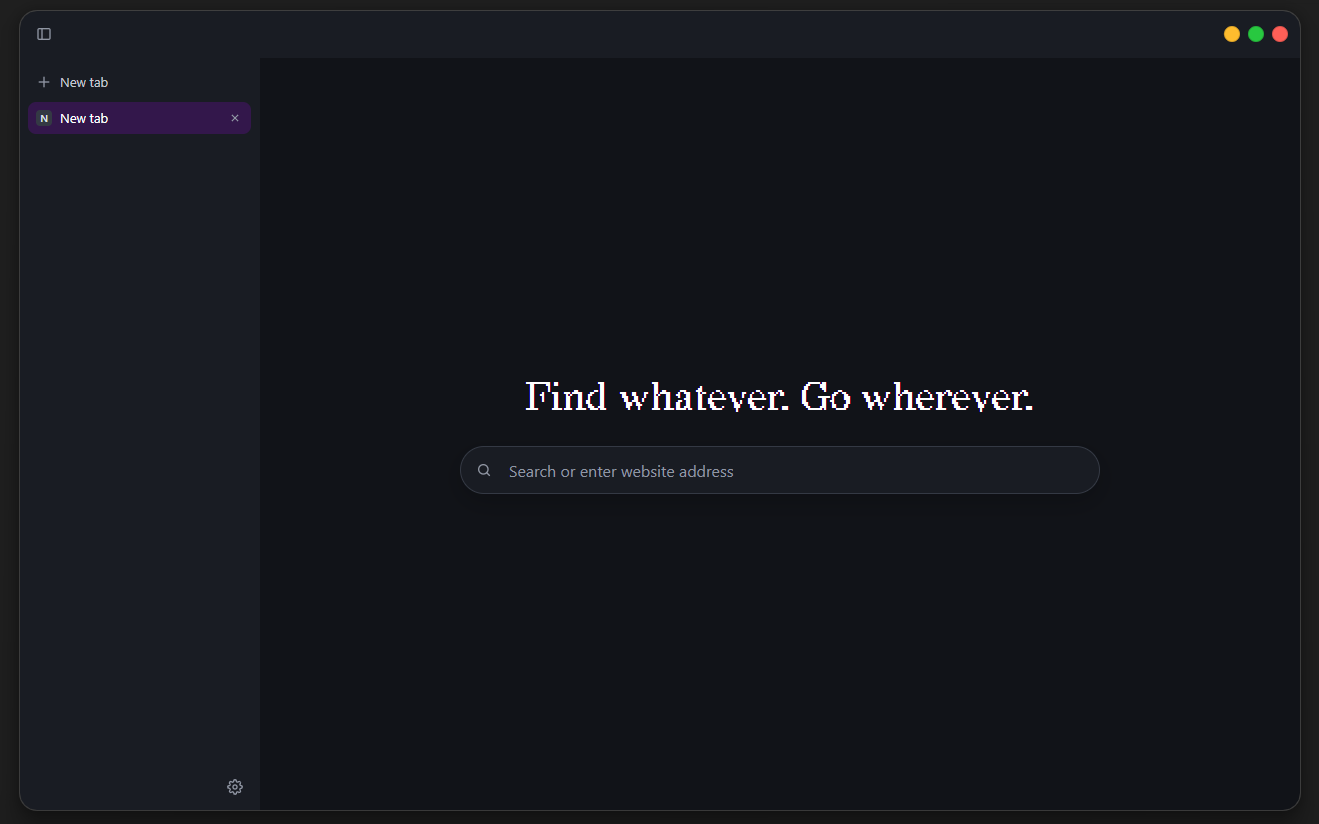
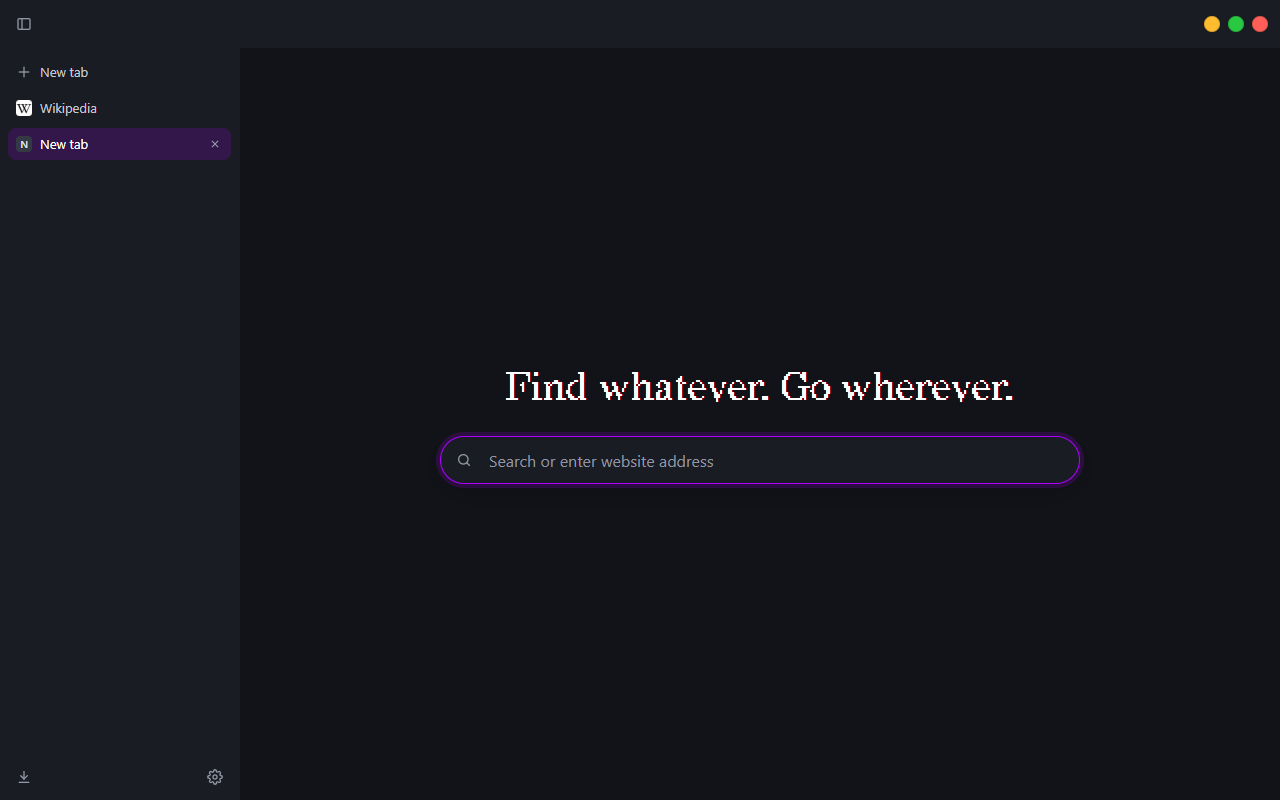
Polish the repo: install script, README, license, issue forms; keep tab titles after downloads

diff --git a/src/main.ts b/src/main.ts
@@ -714,8 +714,15 @@ function wireTab(tab: Tab) {
         contents.focus();
       }
     }
+  });
+
+  // A new page really loaded: forget the old title and icon. (Not on
+  // did-start-navigation: a link that turns out to be a download never
+  // leaves the page, and the tab would lose its title.)
+  contents.on('did-navigate', () => {
     tab.favicon = null;
-    tab.title = '';
+    tab.title =
+      contents.getTitle() === contents.getURL() ? '' : contents.getTitle();
   });
 
   contents.on(

diff --git a/README.md b/README.md
@@ -1,34 +1,82 @@
-<p align="center"><img src="assets/icon.png" width="96" alt="Nya logo" /></p>
+<p align="center">
+  <img src="assets/icon.png" width="96" alt="Nya logo" />
+</p>
 
 <h1 align="center">Nya</h1>
 
-Nya is a clean, minimal desktop web browser with vertical tabs, built with Electron.
+<p align="center">
+  A clean, minimal web browser with vertical tabs.
+</p>
 
-![Screenshot of Nya: vertical tabs on the left and a centered search bar](docs/screenshot.png)
+<p align="center">
+  <a href="https://github.com/ttttima/Browser/releases"><img alt="Latest release" src="https://img.shields.io/github/v/release/ttttima/Browser?include_prereleases&label=release&color=8b5cf6" /></a>
+  <img alt="Windows" src="https://img.shields.io/badge/platform-Windows-0078d4" />
+  <a href="LICENSE"><img alt="MIT license" src="https://img.shields.io/badge/license-MIT-22c55e" /></a>
+</p>
+
+<p align="center">
+  <img src="docs/screenshot.png" width="860" alt="Nya with vertical tabs on the left and a centered search bar" />
+</p>
+
+## Install
+
+**Recommended:** open **PowerShell** and paste this line:
+
+```powershell
+irm https://raw.githubusercontent.com/ttttima/Browser/main/install.ps1 | iex
+```
+
+It downloads the newest Nya, installs it just for you (no administrator
+rights), adds Start menu and desktop shortcuts, and starts it. Run it again
+any time to update.
+
+**Or download it** from the [Releases](https://github.com/ttttima/Browser/releases)
+page:
+
+- `Nya-x.y.z-Setup.exe`: installer
+- `Nya-x.y.z-portable.zip`: no install, unzip and run `Nya.exe`
+
+Nya isn't code-signed yet, so Windows may say _"Windows protected your PC"_
+for downloaded files. Click **More info → Run anyway**. The PowerShell line
+above doesn't trigger this.
 
 ## Features
 
-- **Vertical tabs** in a sidebar, with a compact icons-only mode
+- **Vertical tabs** in a sidebar, with a compact icons-only mode and
+  scrolling through tabs with the mouse wheel
 - **Clean new tab page**: just a search bar, nothing else
 - **Quiet address bar**: shows only the site name until you click it
-- **Color modes**: dark, light and OLED (pure black), plus any accent color
+- **History and Downloads** pages: search, reopen and remove visits; pause,
+  resume, open and retry downloads
+- **Color modes**: dark, light and OLED (pure black), with any accent color
 - **Force dark mode**: makes every website dark, without flashing
 - **Smooth dividers**: soft gradients between areas instead of hard lines
 - **Your own shortcuts**: bind any action to a key or mouse button, and add
-  custom shortcuts that open your favorite sites
-- **Scroll through tabs** with the mouse wheel over the sidebar
-- **No admin rights needed**: installs just for your user, never asks for
-  administrator permission
-- **Privacy by default**: websites can't use your camera, microphone,
+  shortcuts that open your favorite sites
+- **Private by default**: websites can't use your camera, microphone,
   location or notifications
+- **No admin rights**: installs and runs just for your user
 
-## Run it yourself
+<p align="center">
+  <img src="docs/settings.png" width="860" alt="Nya settings: color mode, accent color and layout options" />
+</p>
 
-You need [Node.js](https://nodejs.org) installed.
+## Uninstall
+
+Open Windows **Settings → Apps → Installed apps**, find **Nya** and choose
+**Uninstall**. Your settings and history stay in `%APPDATA%\Nya`; delete that
+folder too if you want them gone.
+
+## Build from source
+
+You need [Node.js](https://nodejs.org).
 
 ```bash
 npm install
-npm start
+npm start          # run in development
+npm run make       # build the installer and zip into out/make
 ```
 
-To build an installer: `npm run make` (the result is in `out/make`).
+## License
+
+[MIT](LICENSE)
